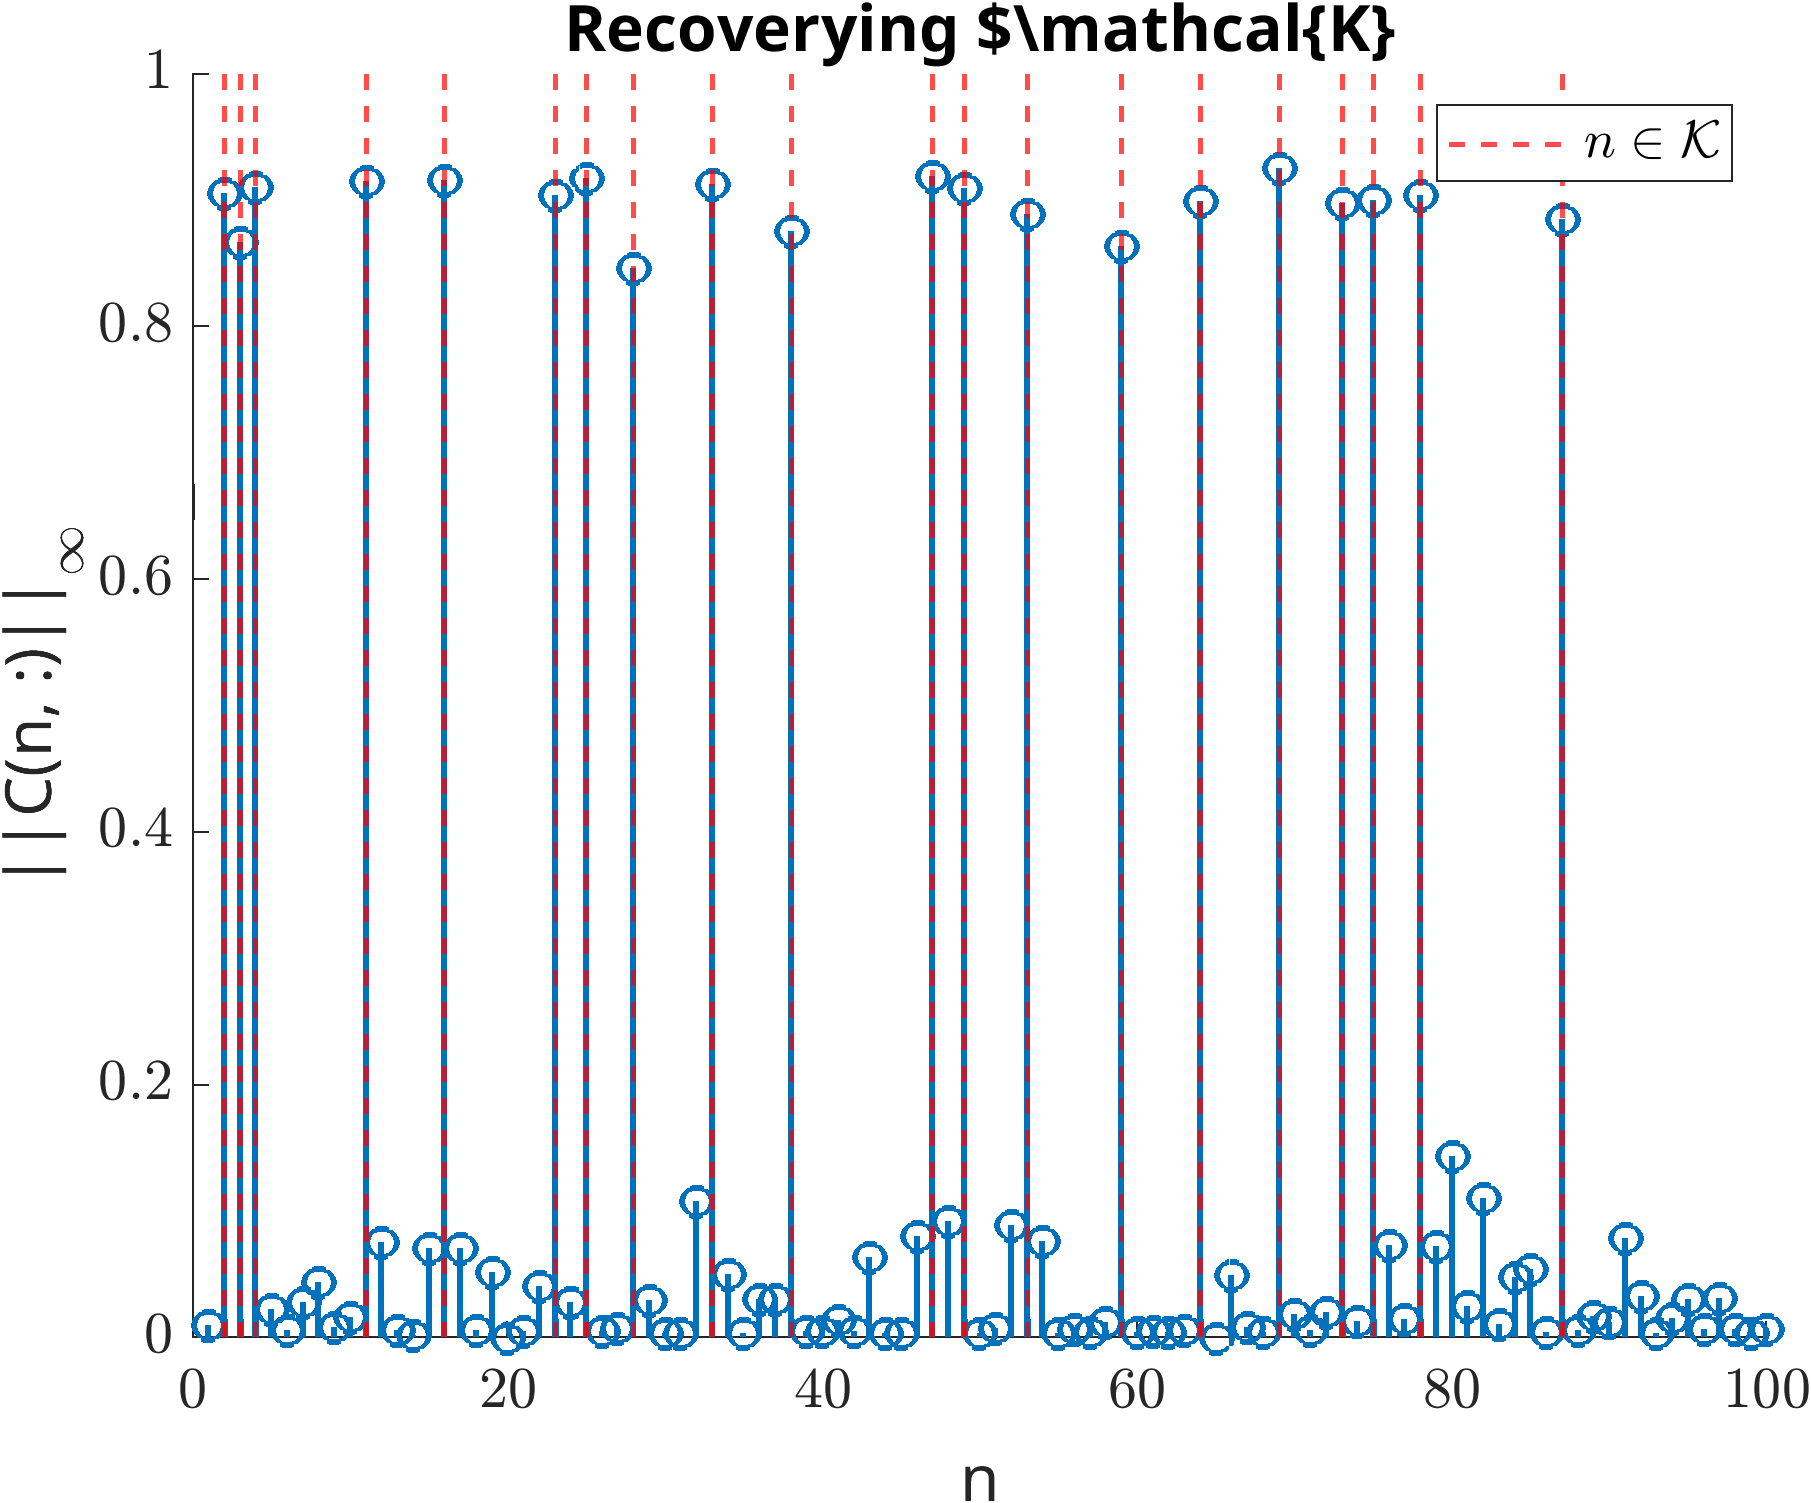
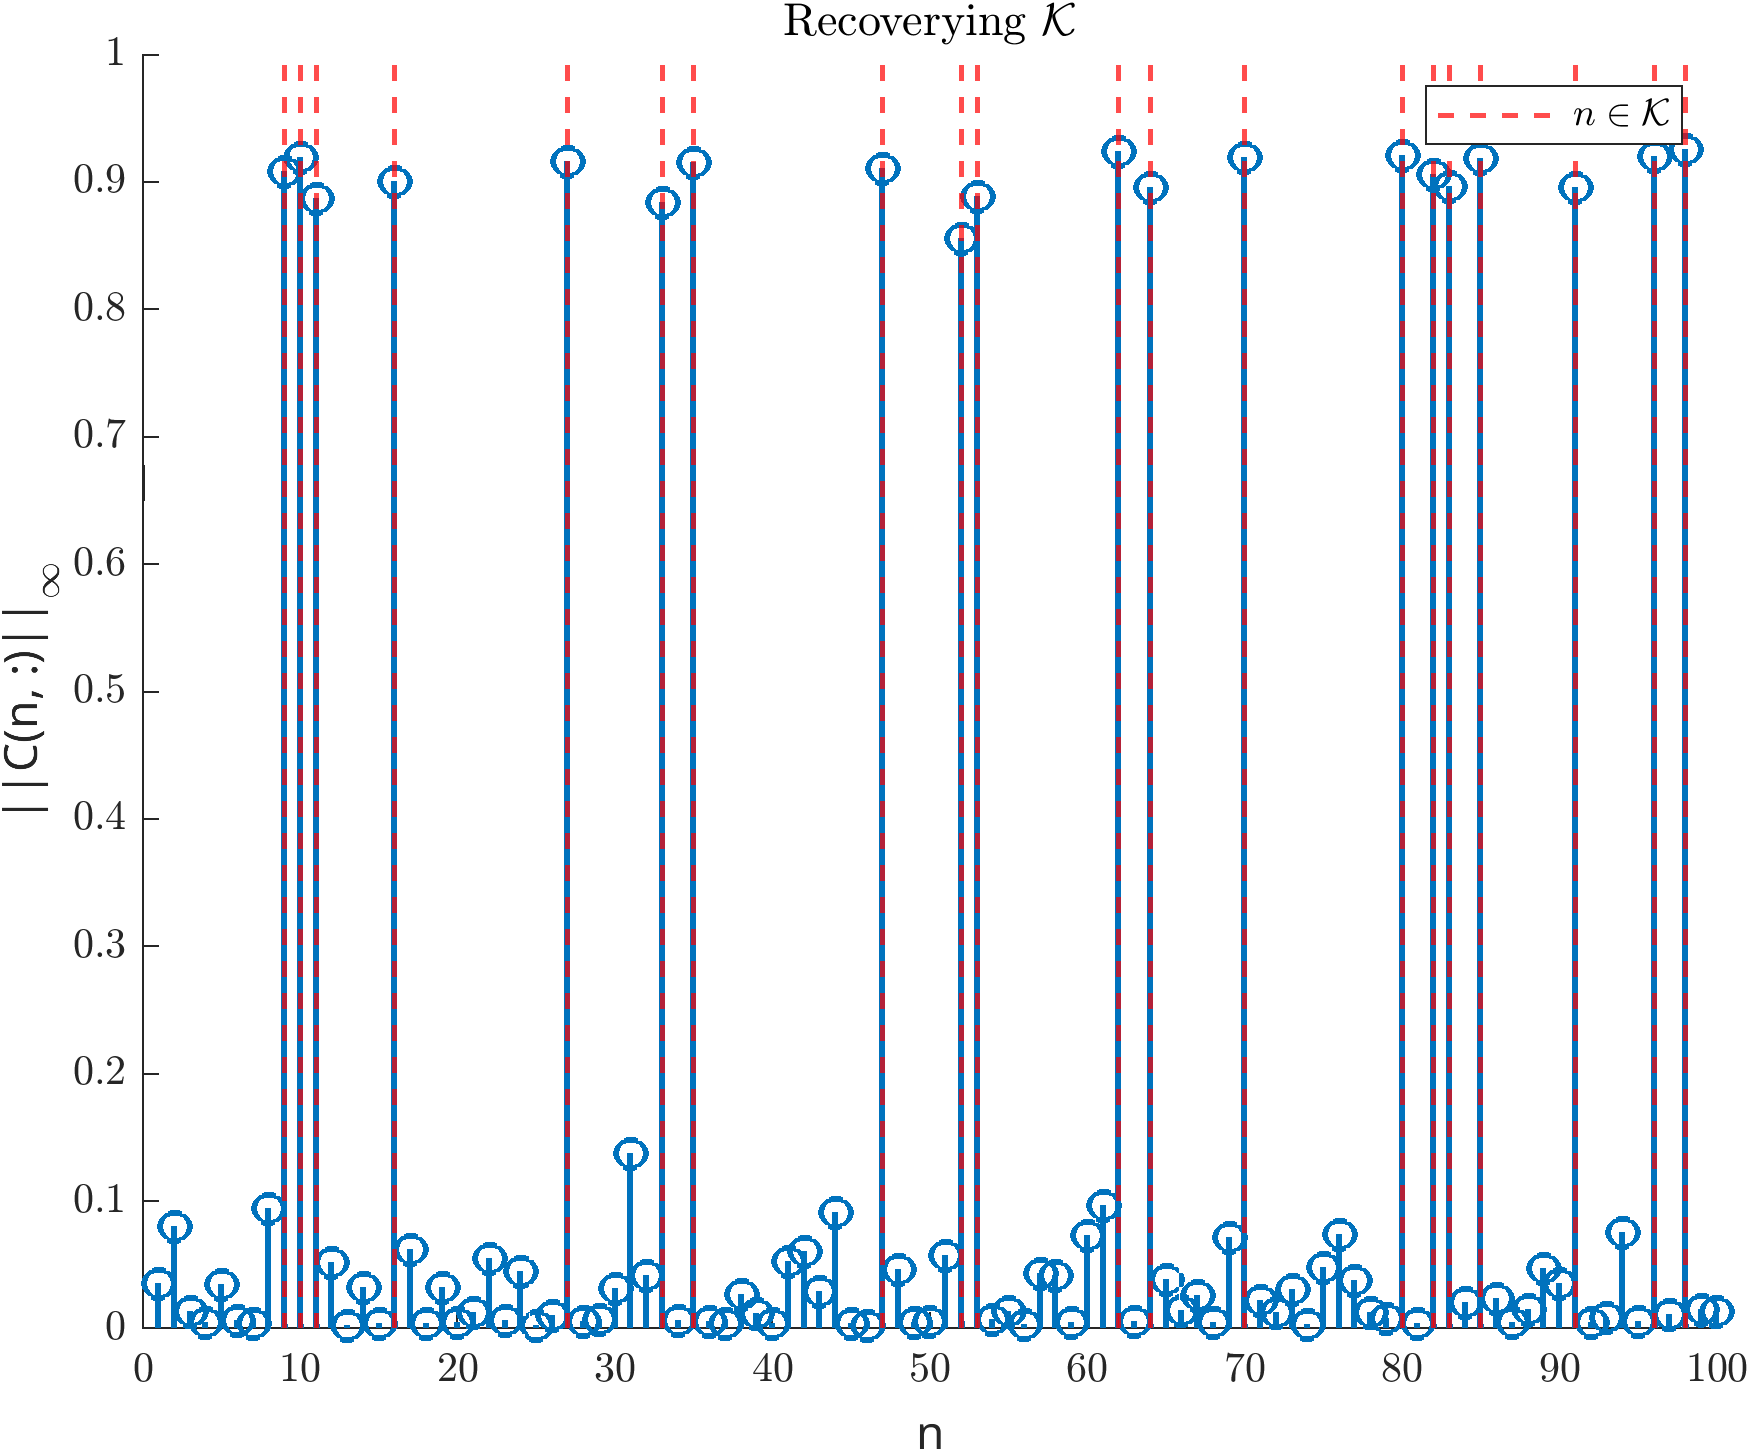
ok

Changed region(s): [[0.0, 0.0, 1.0, 1.0], [0.0617, 0.031, 0.0926, 0.062]]

diff --git a/MERIT__recover_K.m b/MERIT__recover_K.m
@@ -49,12 +49,12 @@ fprintf('Set K_hat: ')
 display(sort(set_K_hat)')
 
 figure()
-tmp = xline(set_K, 'r--', 'LineWidth', 1.0, 'DisplayName', '$n \in \mathcal{K}$', 'Interpreter',  'latex')
+tmp = xline(set_K, 'r--', 'LineWidth', 1.0, 'DisplayName', '$n \in \mathcal{K}$', 'Interpreter',  'latex');
 hold on
 stem(vecnorm(C_hat, Inf, 2), 'LineWidth', 1.45, 'MarkerSize', 7)
 xlabel('n')
 ylabel('||C(n, :)||_{\infty}')
-title('Recoverying $\mathcal{K}', 'Interpreter', 'Latex')
+title('Recoverying $\mathcal{K}$', 'Interpreter', 'Latex')
 legend(tmp(1), 'Interpreter',  'Latex')
 exportgraphics(gcf, 'figure1.png', 'resolution', 300);
 
